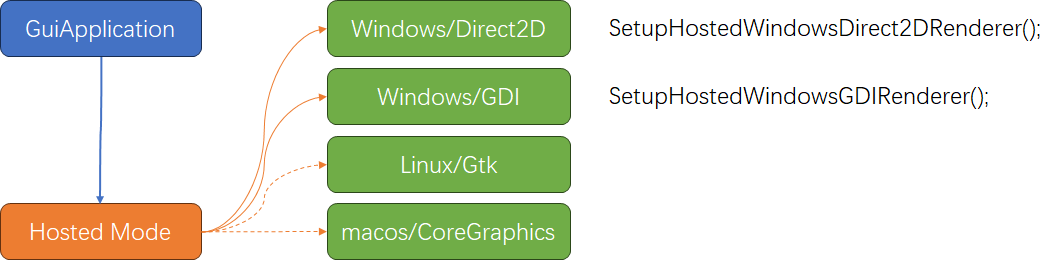
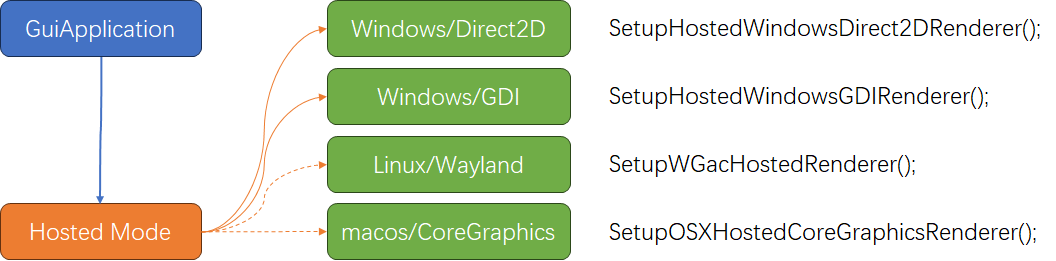
Publish updated GacUI documentation

Changed region(s): [[0.5625, 0.8582, 1.0, 0.9502], [0.5625, 0.5824, 0.875, 0.6743], [0.3438, 0.5824, 0.5, 0.6743]]

diff --git a/doc/current/gacui/coding-agent/automation-service.html b/doc/current/gacui/coding-agent/automation-service.html
@@ -105,6 +105,24 @@
         "kind": "Paragraph",
         "content": [
           {
+            "kind": "Strong",
+            "content": [
+              {
+                "kind": "Text",
+                "text": "IMPORTANT:"
+              }
+            ]
+          },
+          {
+            "kind": "Text",
+            "text": " This automation service is strong recommended to only use with debugging and testing. Security is not guaranteed totally.\n        "
+          }
+        ]
+      },
+      {
+        "kind": "Paragraph",
+        "content": [
+          {
             "kind": "Text",
             "text": "\n            The service is independent from the remote protocol.\n            A normal Windows application, a remote protocol core application, and a remote protocol renderer can all expose an automation service,\n            but each setup exposes the view of the UI that exists on that side.\n        "
           }
@@ -956,24 +974,33 @@
                     "content": [
                       {
                         "kind": "Name",
-                        "text": "SetupGtkRenderer"
-                      },
-                      {
-                        "kind": "Text",
-                        "text": ": do not call the Windows HTTP helper. A Gtk port must provide its own endpoint layer and automation service implementation if it needs coding-agent automation."
-                      }
-                    ]
-                  },
-                  {
-                    "kind": "ContentListItem",
-                    "content": [
-                      {
-                        "kind": "Name",
                         "text": "SetupWGacRenderer"
                       },
                       {
                         "kind": "Text",
-                        "text": ": do not call the Windows HTTP helper. A Wayland port must provide its own endpoint layer and automation service implementation if it needs coding-agent automation."
+                        "text": ": "
+                      },
+                      {
+                        "kind": "PageLink",
+                        "href": "https://github.com/vczh-libraries/wGac/blob/master/WGacShared/MiniHttpAutomationService.cpp",
+                        "content": []
+                      },
+                      {
+                        "kind": "Text",
+                        "text": " in "
+                      },
+                      {
+                        "kind": "Strong",
+                        "content": [
+                          {
+                            "kind": "Text",
+                            "text": "wGac"
+                          }
+                        ]
+                      },
+                      {
+                        "kind": "Text",
+                        "text": " repo is the sample code to start such service."
                       }
                     ]
                   },
@@ -994,7 +1021,63 @@
                       },
                       {
                         "kind": "Text",
-                        "text": ", but the service should follow hosted-mode window-id behavior if it exposes hosted windows."
+                        "text": "."
+                      }
+                    ]
+                  },
+                  {
+                    "kind": "ContentListItem",
+                    "content": [
+                      {
+                        "kind": "Name",
+                        "text": "SetupOSXCoreGraphicsRenderer"
+                      },
+                      {
+                        "kind": "Text",
+                        "text": ": "
+                      },
+                      {
+                        "kind": "PageLink",
+                        "href": "https://github.com/vczh-libraries/iGac/blob/master/MacShared/MiniHttpAutomationService.cpp",
+                        "content": []
+                      },
+                      {
+                        "kind": "Text",
+                        "text": " in "
+                      },
+                      {
+                        "kind": "Strong",
+                        "content": [
+                          {
+                            "kind": "Text",
+                            "text": "iGac"
+                          }
+                        ]
+                      },
+                      {
+                        "kind": "Text",
+                        "text": " repo is the sample code to start such service."
+                      }
+                    ]
+                  },
+                  {
+                    "kind": "ContentListItem",
+                    "content": [
+                      {
+                        "kind": "Name",
+                        "text": "SetupOSXHostedCoreGraphicsRenderer"
+                      },
+                      {
+                        "kind": "Text",
+                        "text": ": same requirement as "
+                      },
+                      {
+                        "kind": "Name",
+                        "text": "SetupOSXCoreGraphicsRenderer"
+                      },
+                      {
+                        "kind": "Text",
+                        "text": "."
                       }
                     ]
                   }

diff --git a/doc/current/gacui/modes/home.html b/doc/current/gacui/modes/home.html
@@ -190,53 +190,67 @@
         "content": [
           {
             "kind": "Text",
-            "text": "\n            Using "
+            "text": "\n            Using\n            "
           },
           {
-            "kind": "Strong",
-            "content": [
+            "kind": "List",
+            "ordered": false,
+            "items": [
               {
-                "kind": "Text",
-                "text": "SetupHostedWindowsGDIRenderer"
-              }
-            ]
-          },
-          {
-            "kind": "Text",
-            "text": " or "
-          },
-          {
-            "kind": "Strong",
-            "content": [
+                "kind": "ContentListItem",
+                "content": [
+                  {
+                    "kind": "Strong",
+                    "content": [
+                      {
+                        "kind": "Text",
+                        "text": "SetupHostedWindowsDirect2DRenderer"
+                      }
+                    ]
+                  }
+                ]
+              },
               {
-                "kind": "Text",
-                "text": "SetupHostedWindowsDirect2DRenderer"
-              }
-            ]
-          },
-          {
-            "kind": "Text",
-            "text": " instead of "
-          },
-          {
-            "kind": "Strong",
-            "content": [
+                "kind": "ContentListItem",
+                "content": [
+                  {
+                    "kind": "Strong",
+                    "content": [
+                      {
+                        "kind": "Text",
+                        "text": "SetupHostedWindowsGDIRenderer"
+                      }
+                    ]
+                  }
+                ]
+              },
               {
-                "kind": "Text",
-                "text": "SetupWindowsGDIRenderer"
-              }
-            ]
-          },
-          {
-            "kind": "Text",
-            "text": " or "
-          },
-          {
-            "kind": "Strong",
-            "content": [
+                "kind": "ContentListItem",
+                "content": [
+                  {
+                    "kind": "Strong",
+                    "content": [
+                      {
+                        "kind": "Text",
+                        "text": "SetupWGacHostedRenderer"
+                      }
+                    ]
+                  }
+                ]
+              },
               {
-                "kind": "Text",
-                "text": "SetupWindowsDirect2DRenderer"
+                "kind": "ContentListItem",
+                "content": [
+                  {
+                    "kind": "Strong",
+                    "content": [
+                      {
+                        "kind": "Text",
+                        "text": "SetupOSXHostedCoreGraphicsRenderer"
+                      }
+                    ]
+                  }
+                ]
               }
             ]
           },

diff --git a/doc/current/gacui/home.html b/doc/current/gacui/home.html
@@ -672,6 +672,24 @@
                             "text": "SetupHostedWindowsGDIRenderer();"
                           }
                         ]
+                      },
+                      {
+                        "kind": "ContentListItem",
+                        "content": [
+                          {
+                            "kind": "Text",
+                            "text": "SetupWGacHostedRenderer();"
+                          }
+                        ]
+                      },
+                      {
+                        "kind": "ContentListItem",
+                        "content": [
+                          {
+                            "kind": "Text",
+                            "text": "SetupOSXHostedCoreGraphicsRenderer();"
+                          }
+                        ]
                       }
                     ]
                   }

diff --git a/doc/current/gacui/kb/osprovider.html b/doc/current/gacui/kb/osprovider.html
@@ -1136,20 +1136,6 @@
               },
               {
                 "kind": "Text",
-                "text": "\n                and\n                "
-              },
-              {
-                "kind": "PageLink",
-                "href": "https://github.com/vczh-libraries/gGac",
-                "content": [
-                  {
-                    "kind": "Text",
-                    "text": "Linux XWindow"
-                  }
-                ]
-              },
-              {
-                "kind": "Text",
                 "text": "\n                implementation for "
               },
               {
